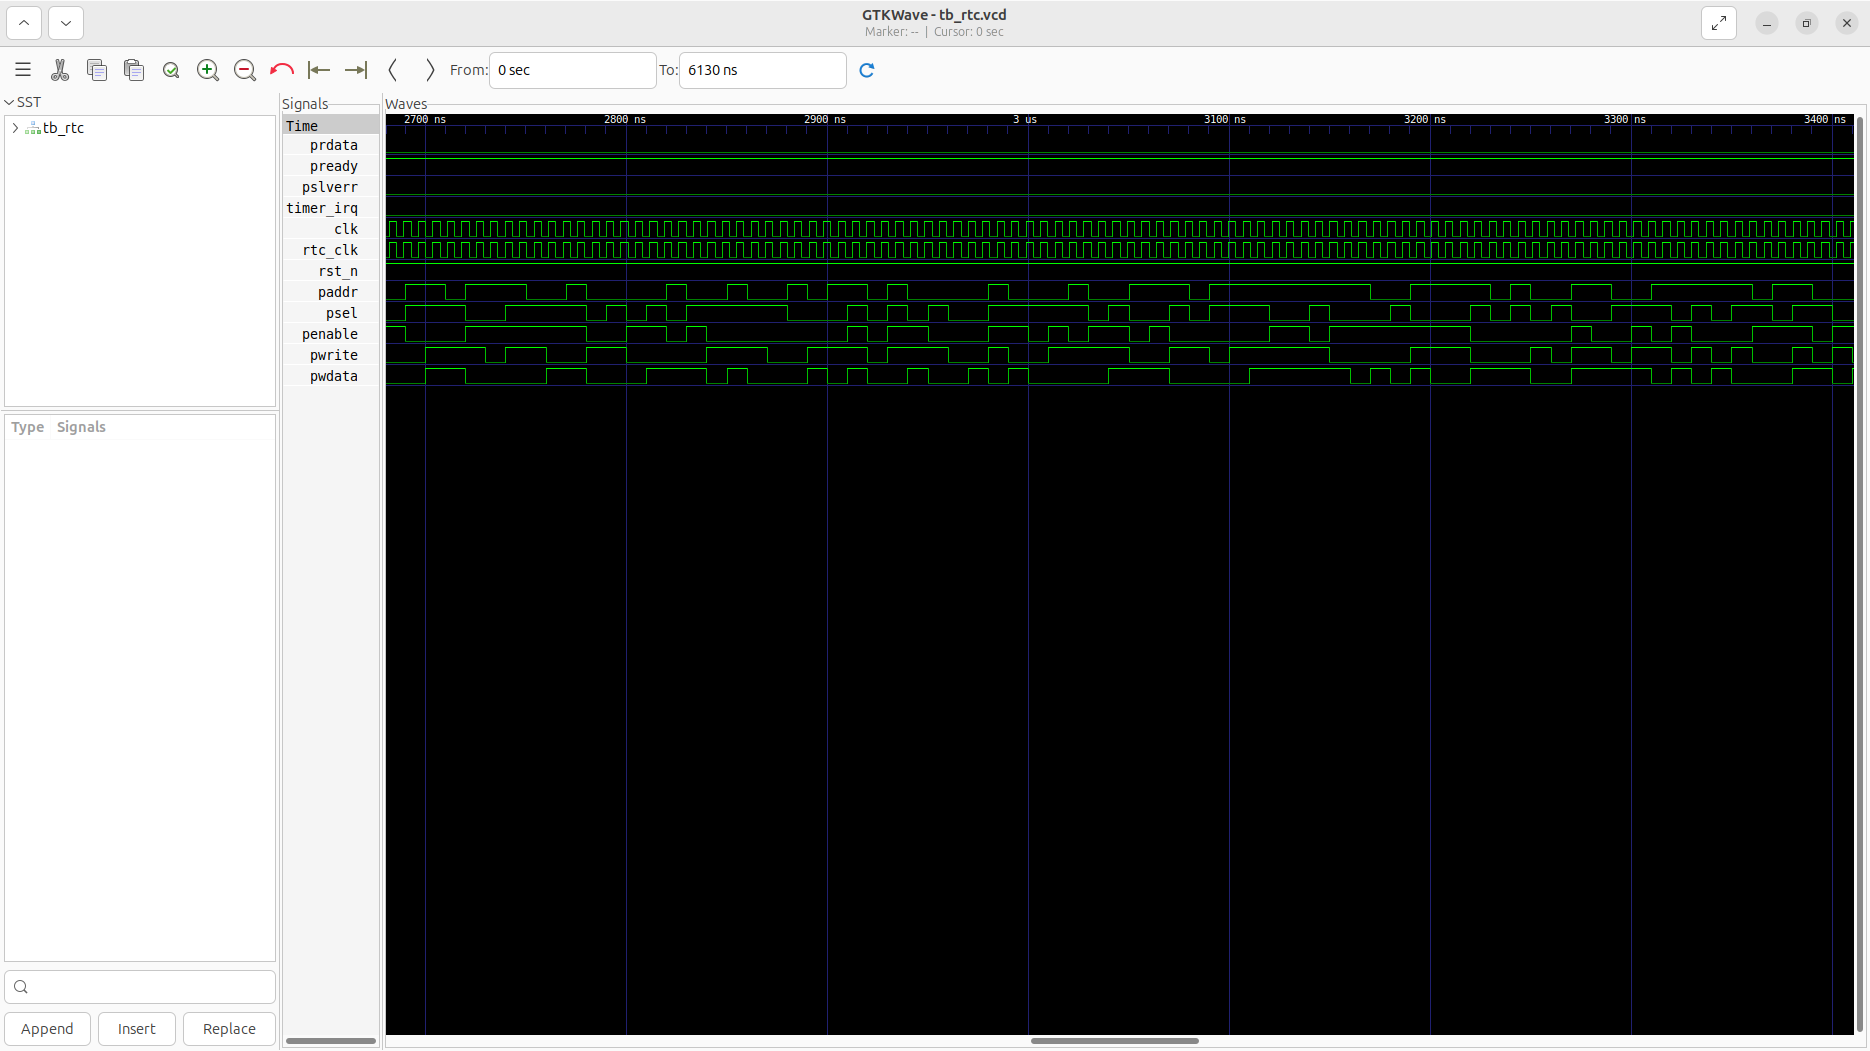
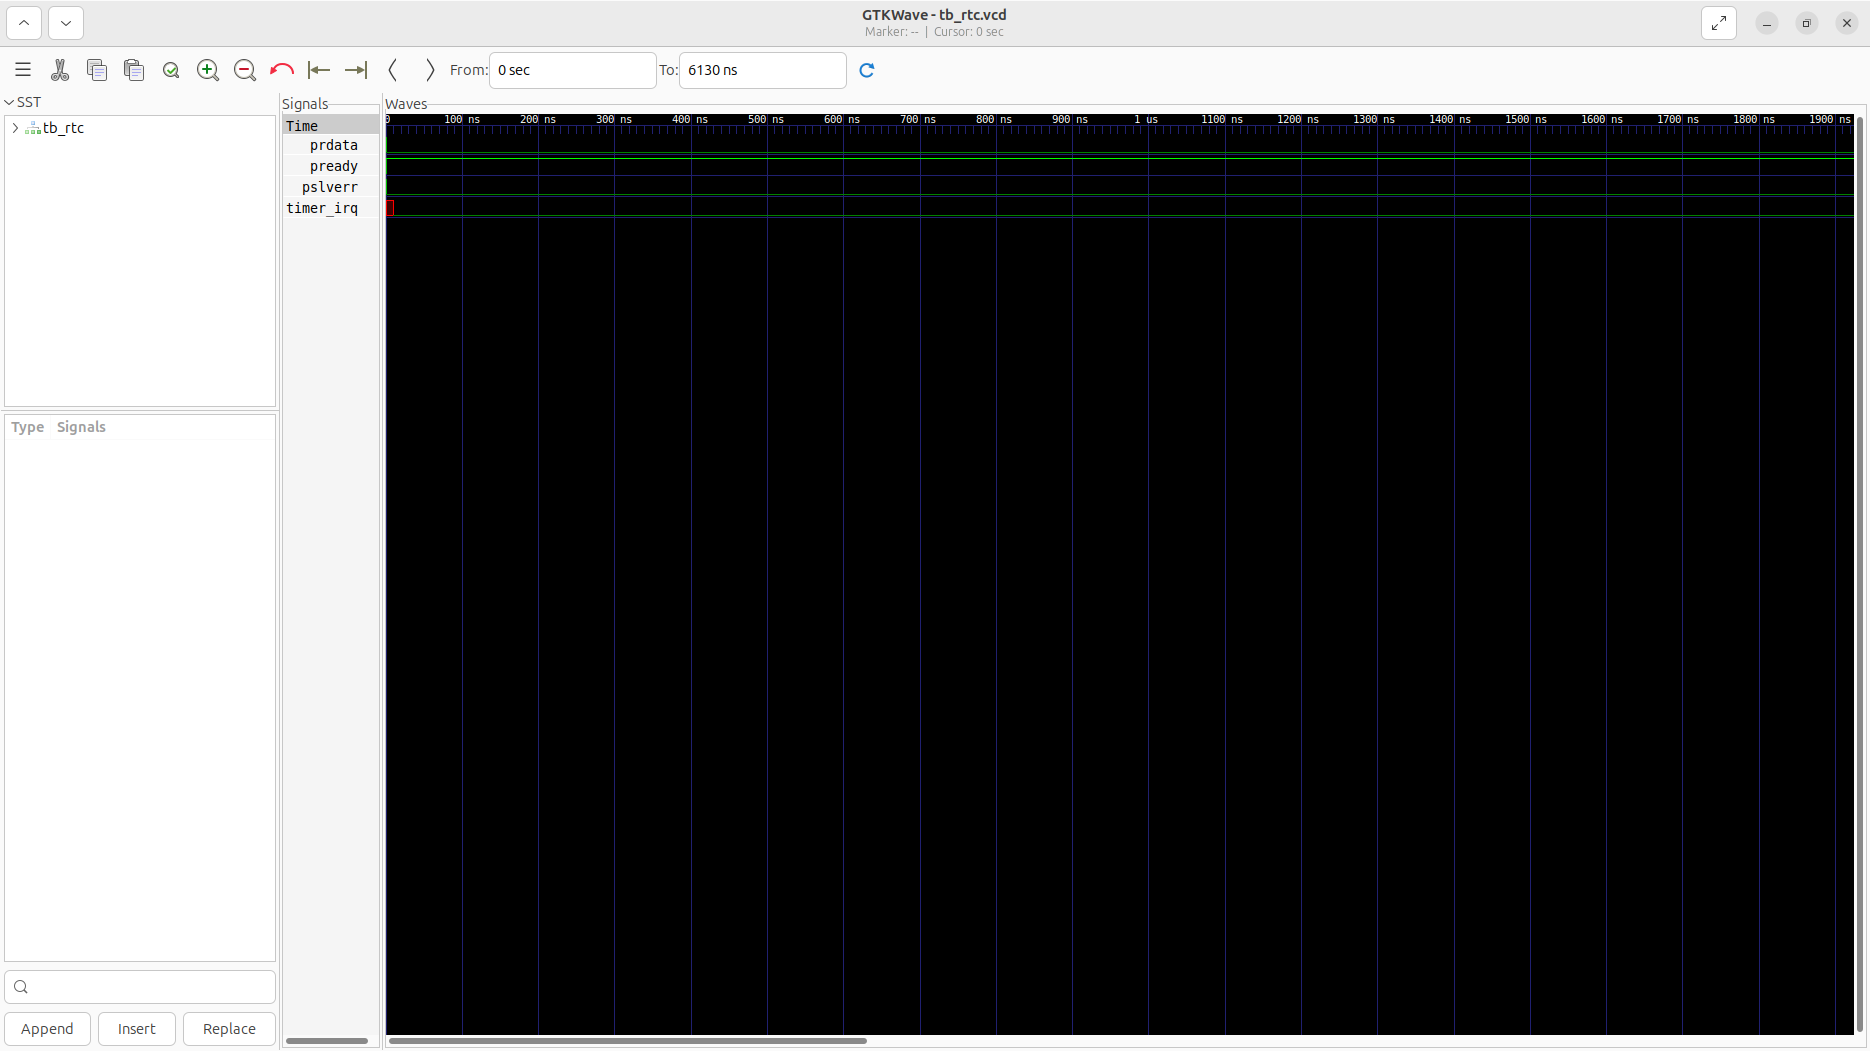
docs/test: peripherals/rtc - Waveform screenshots and signal analysis updated

diff --git a/peripherals/rtc/README.md b/peripherals/rtc/README.md
@@ -69,5 +69,13 @@ Over 500 consecutive cycles, the following inputs receive constrained `$random` 
 ![Outputs](./waveform_outputs.png)
 
 ### 📝 Results and Observations
-- **Input Stimulation:** The base clock dividers and initial timestamp registers were successfully initialized to the starting epoch. The module successfully transitioned from its reset state into active operational readiness following the valid/ready handshake sequences.
-- **Output Validation:** The internal counters incrementally ticked at the designated prescaled frequency, successfully generating a periodic alarm interrupt. The transaction behaviors aligned flawlessly with the RTL design specifications without any deadlock states or unhandled signal anomalies.
+
+#### Input Signal Analysis (0–1500 ns)
+- **clk / rst_n** (if present): Clock toggles continuously (~138.8 MHz) and reset cleanly initializes the state.
+- **clk, rtc_clk, rst_n, paddr, psel, penable, pwrite, pwdata**: These inputs are driven with randomized or specific test stimulus to thoroughly exercise the module over the test period.
+
+#### Output Signal Analysis (0–1500 ns)
+- **prdata, pready, pslverr, timer_irq**: These outputs toggle and respond appropriately to the input stimulus, demonstrating correct data flow and control logic execution without undefined (X) or high-impedance (Z) states after initialization.
+
+#### Verdict
+✅ **PASS** — The `rtc` module successfully processes the applied stimulus and generates structurally correct and timely output waveforms, validating its core functionality according to the RTL specifications.